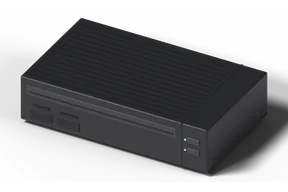
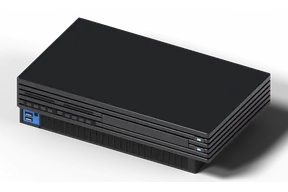
Consoles : la PlayStation 2 Fat refaite d'après les photos
Modèle repris d'après les photos studio de Wikimedia Commons (vues avant gauche, avant
droite, arrière) : le dessus est lisse et c'est la moitié haute qui est faite de six fines
lamelles empilées, qui font le tour de la façade et du côté droit ; ports manette et
fentes de carte mémoire à gauche dans les lamelles, tiroir au centre, Reset (voyant vert) et
Éjection (voyant bleu) au bout droit ; dessous, un socle en retrait avec la grille
d'aération et, à gauche, le panneau bleu mat des ports USB et i.Link, presque au ras du
socle ; le flanc gauche, plat, rentre avec le socle sous les lamelles.

diff --git a/scripts/consoles/render.py b/scripts/consoles/render.py
@@ -453,26 +453,69 @@ def n3ds():
 
 
 def ps2():
-    """PlayStation 2 (premier modèle) : 30,1 × 17,8 × 7,8 cm, noir mat ; le dessus strié de
-    rainures parallèles ; en façade, la fente du tiroir à disque en haut, deux ports manette
-    et deux fentes de carte mémoire en bas à gauche, Reset et Éjection (voyants) à droite ;
-    le bloc de droite, en retrait, marqué d'une rainure verticale."""
-    body, dark, groove = plastic('#1c1c1f', 0.55), plastic('#0d0d0f', 0.6), plastic('#2a2a2e', 0.5)
+    """PlayStation 2 « Fat » (SCPH-30001), d'après les photos studio d'Evan-Amos (Wikimedia
+    Commons, vues avant gauche, avant droite, arrière) : 30,1 × 17,8 × 7,8 cm, noire.
+    - Le dessus est LISSE ; c'est la moitié haute du boîtier qui est faite de six fines
+      lamelles empilées, séparées par des rainures sombres, qui font le tour de la façade et du
+      côté droit (le flanc gauche est un panneau plat, avec ses patins pour la poser debout).
+    - Dans les lamelles, à gauche : les deux fentes de carte mémoire au-dessus des deux ports
+      manette ; au centre, le tiroir du disque (une lamelle double) ; au bout droit, Reset
+      (voyant vert) au-dessus d'Éjection (voyant bleu).
+    - Dessous, un socle plus sombre en retrait (devant et à droite) : la grande grille
+      d'aération en façade et, à gauche, le petit panneau bleu des ports USB et i.Link."""
+    shell = material('#17171a', 0.36, coat=0.15)
+    core, base, grille = plastic('#060607', 0.7), plastic('#101012', 0.55), plastic('#050506', 0.8)
     W, D, H = 30.1, 17.8, 7.8
-    box('corps', 0, 0, 0.6, W, D, H, body, bevel=0.25)
-    box('pieds', 0.8, 0.8, 0, W - 0.8, D - 0.8, 0.7, dark, bevel=0.1)
-    for i in range(14):
-        y = 1.0 + i * 1.15
-        box('rainure', 0.6, y, H - 0.03, W - 4.6, y + 0.28, H + 0.01, dark)
-    box('bloc', W - 4.2, -0.02, 0.6, W - 4.05, D, H + 0.01, dark)
-    box('tiroir', 1.0, -0.05, 5.0, W - 5.0, 0.1, 6.6, groove, bevel=0.1)
-    box('fente', 1.4, -0.08, 5.5, W - 5.4, 0.1, 5.75, dark)
-    for x in (1.6, 6.0):
-        box('port', x, -0.08, 1.4, x + 3.6, 0.1, 2.9, dark, bevel=0.2)
-        box('carte', x + 0.4, -0.08, 3.4, x + 3.2, 0.1, 3.75, dark)
-    for z, color in ((5.3, '#2fd86a'), (3.6, '#3d8cff')):
-        box('bouton', W - 3.3, -0.12, z - 0.5, W - 1.2, 0.1, z + 0.5, groove, bevel=0.15)
-        box('voyant', W - 3.6, -0.13, z - 0.1, W - 3.4, 0.1, z + 0.1, led(color, 3))
+    ZB = 3.05                       # haut du socle, bas des lamelles
+    SLAT, GAP = 0.6, 0.19           # épaisseur d'une lamelle, rainure entre deux
+    # Flanc gauche plat, sur toute la hauteur : au ras des lamelles en haut, et en retrait
+    # avec le socle en bas (il ne dépasse pas devant le logement des ports)
+    box('flanc', 0, 0.15, ZB, 0.45, D, H, shell, bevel=0.12)
+    box('flanc-bas', 0, 1.0, 0, 0.45, D, ZB + 0.05, base, bevel=0.06)
+    # Cœur sombre derrière les rainures
+    box('coeur', 0.4, 0.35, ZB, W - 0.35, D - 0.3, H - 0.1, core)
+    # Six lamelles (la plus haute fait le dessus, lisse), arrondies au coin avant droit
+    levels = [ZB + i * (SLAT + GAP) for i in range(6)]
+    for i, z in enumerate(levels):
+        top = H if i == 5 else z + SLAT
+        prism('lamelle', rr(0.4, 0, W - 0.4, D, [0.0, 0.35, 0.35, 0.0]), z, top, shell, bevel=0.07, segments=2)
+    # Socle en retrait : plus sombre, devant (1 cm) et à droite (2,7 cm) ; à gauche, le
+    # logement des ports USB et i.Link, creusé dans le socle et cerné de noir
+    box('socle', 3.25, 1.0, 0, W - 2.7, D - 0.6, ZB, base, bevel=0.1)
+    box('socle-gauche', 0.45, 1.2, 0, 3.3, D - 0.6, ZB, base)
+    box('logement-bas', 0.45, 1.0, 0, 3.3, 1.22, 0.38, base, bevel=0.05)
+    box('logement-haut', 0.45, 1.0, ZB - 0.25, 3.3, 1.22, ZB, base)
+    box('logement-droit', 3.05, 1.0, 0, 3.3, 1.22, ZB, base, bevel=0.04)
+    # Grille d'aération du socle : fentes horizontales coupées de montants
+    for k in range(7):
+        z = 0.45 + k * 0.33
+        box('fente', 3.4, 0.97, z, W - 4.0, 1.02, z + 0.17, grille)
+    for k in range(25):
+        x = 3.4 + k * ((W - 7.4) / 24)
+        box('montant', x - 0.05, 0.93, 0.4, x + 0.05, 1.0, 2.75, base)
+    # Panneau bleu mat des ports USB (deux, l'un sur l'autre) et i.Link, au fond du logement
+    box('panneau-bleu', 0.45, 1.14, 0.38, 3.05, 1.22, ZB - 0.25, material('#2c5fc4', 0.55))
+    for z in (0.7, 1.45):
+        box('usb', 0.8, 1.09, z, 1.95, 1.15, z + 0.5, grille)
+        box('languette', 0.95, 1.07, z + 0.12, 1.8, 1.12, z + 0.26, plastic('#cfd3da', 0.4))
+    box('ilink', 2.25, 1.09, 1.75, 2.75, 1.15, 2.2, grille)
+    # Ports manette (deux lamelles du bas) et fentes de carte mémoire (au-dessus), à gauche
+    for x in (1.2, 7.2):
+        z0 = levels[1] - 0.05
+        box('port-manette', x, -0.06, z0, x + 5.2, 0.25, z0 + SLAT + 0.1, grille, bevel=0.05)
+        for k in range(4):
+            box('broches', x + 0.5 + k * 1.1, -0.08, z0 + 0.12, x + 1.2 + k * 1.1, 0.0, z0 + SLAT - 0.02, plastic('#2a2a2e', 0.5))
+        z1 = levels[3] + 0.18
+        box('carte', x + 0.2, -0.06, z1, x + 4.8, 0.25, z1 + 0.22, grille)
+    # Tiroir du disque : une lamelle double au centre, sa jointure et son bord
+    box('tiroir', 13.4, -0.03, levels[2], 26.9, 0.15, levels[3] + SLAT, shell, bevel=0.06)
+    box('jointure', 13.35, -0.04, levels[2] - 0.02, 13.45, 0.16, levels[3] + SLAT + 0.02, core)
+    box('jointure', 26.85, -0.04, levels[2] - 0.02, 26.95, 0.16, levels[3] + SLAT + 0.02, core)
+    # Bout droit : Reset (voyant vert) au-dessus d'Éjection (voyant bleu)
+    for lvl, color in ((4, '#3ee07a'), (2, '#3a86ff')):
+        z = levels[lvl]
+        box('bouton', W - 2.3, -0.08, z, W - 0.7, 0.1, z + SLAT, material('#1d1d21', 0.3, coat=0.3), bevel=0.05)
+        box('voyant', W - 1.75, -0.1, z + 0.18, W - 1.25, 0.0, z + SLAT - 0.18, led(color, 3.5))
 
 
 def ps3():
